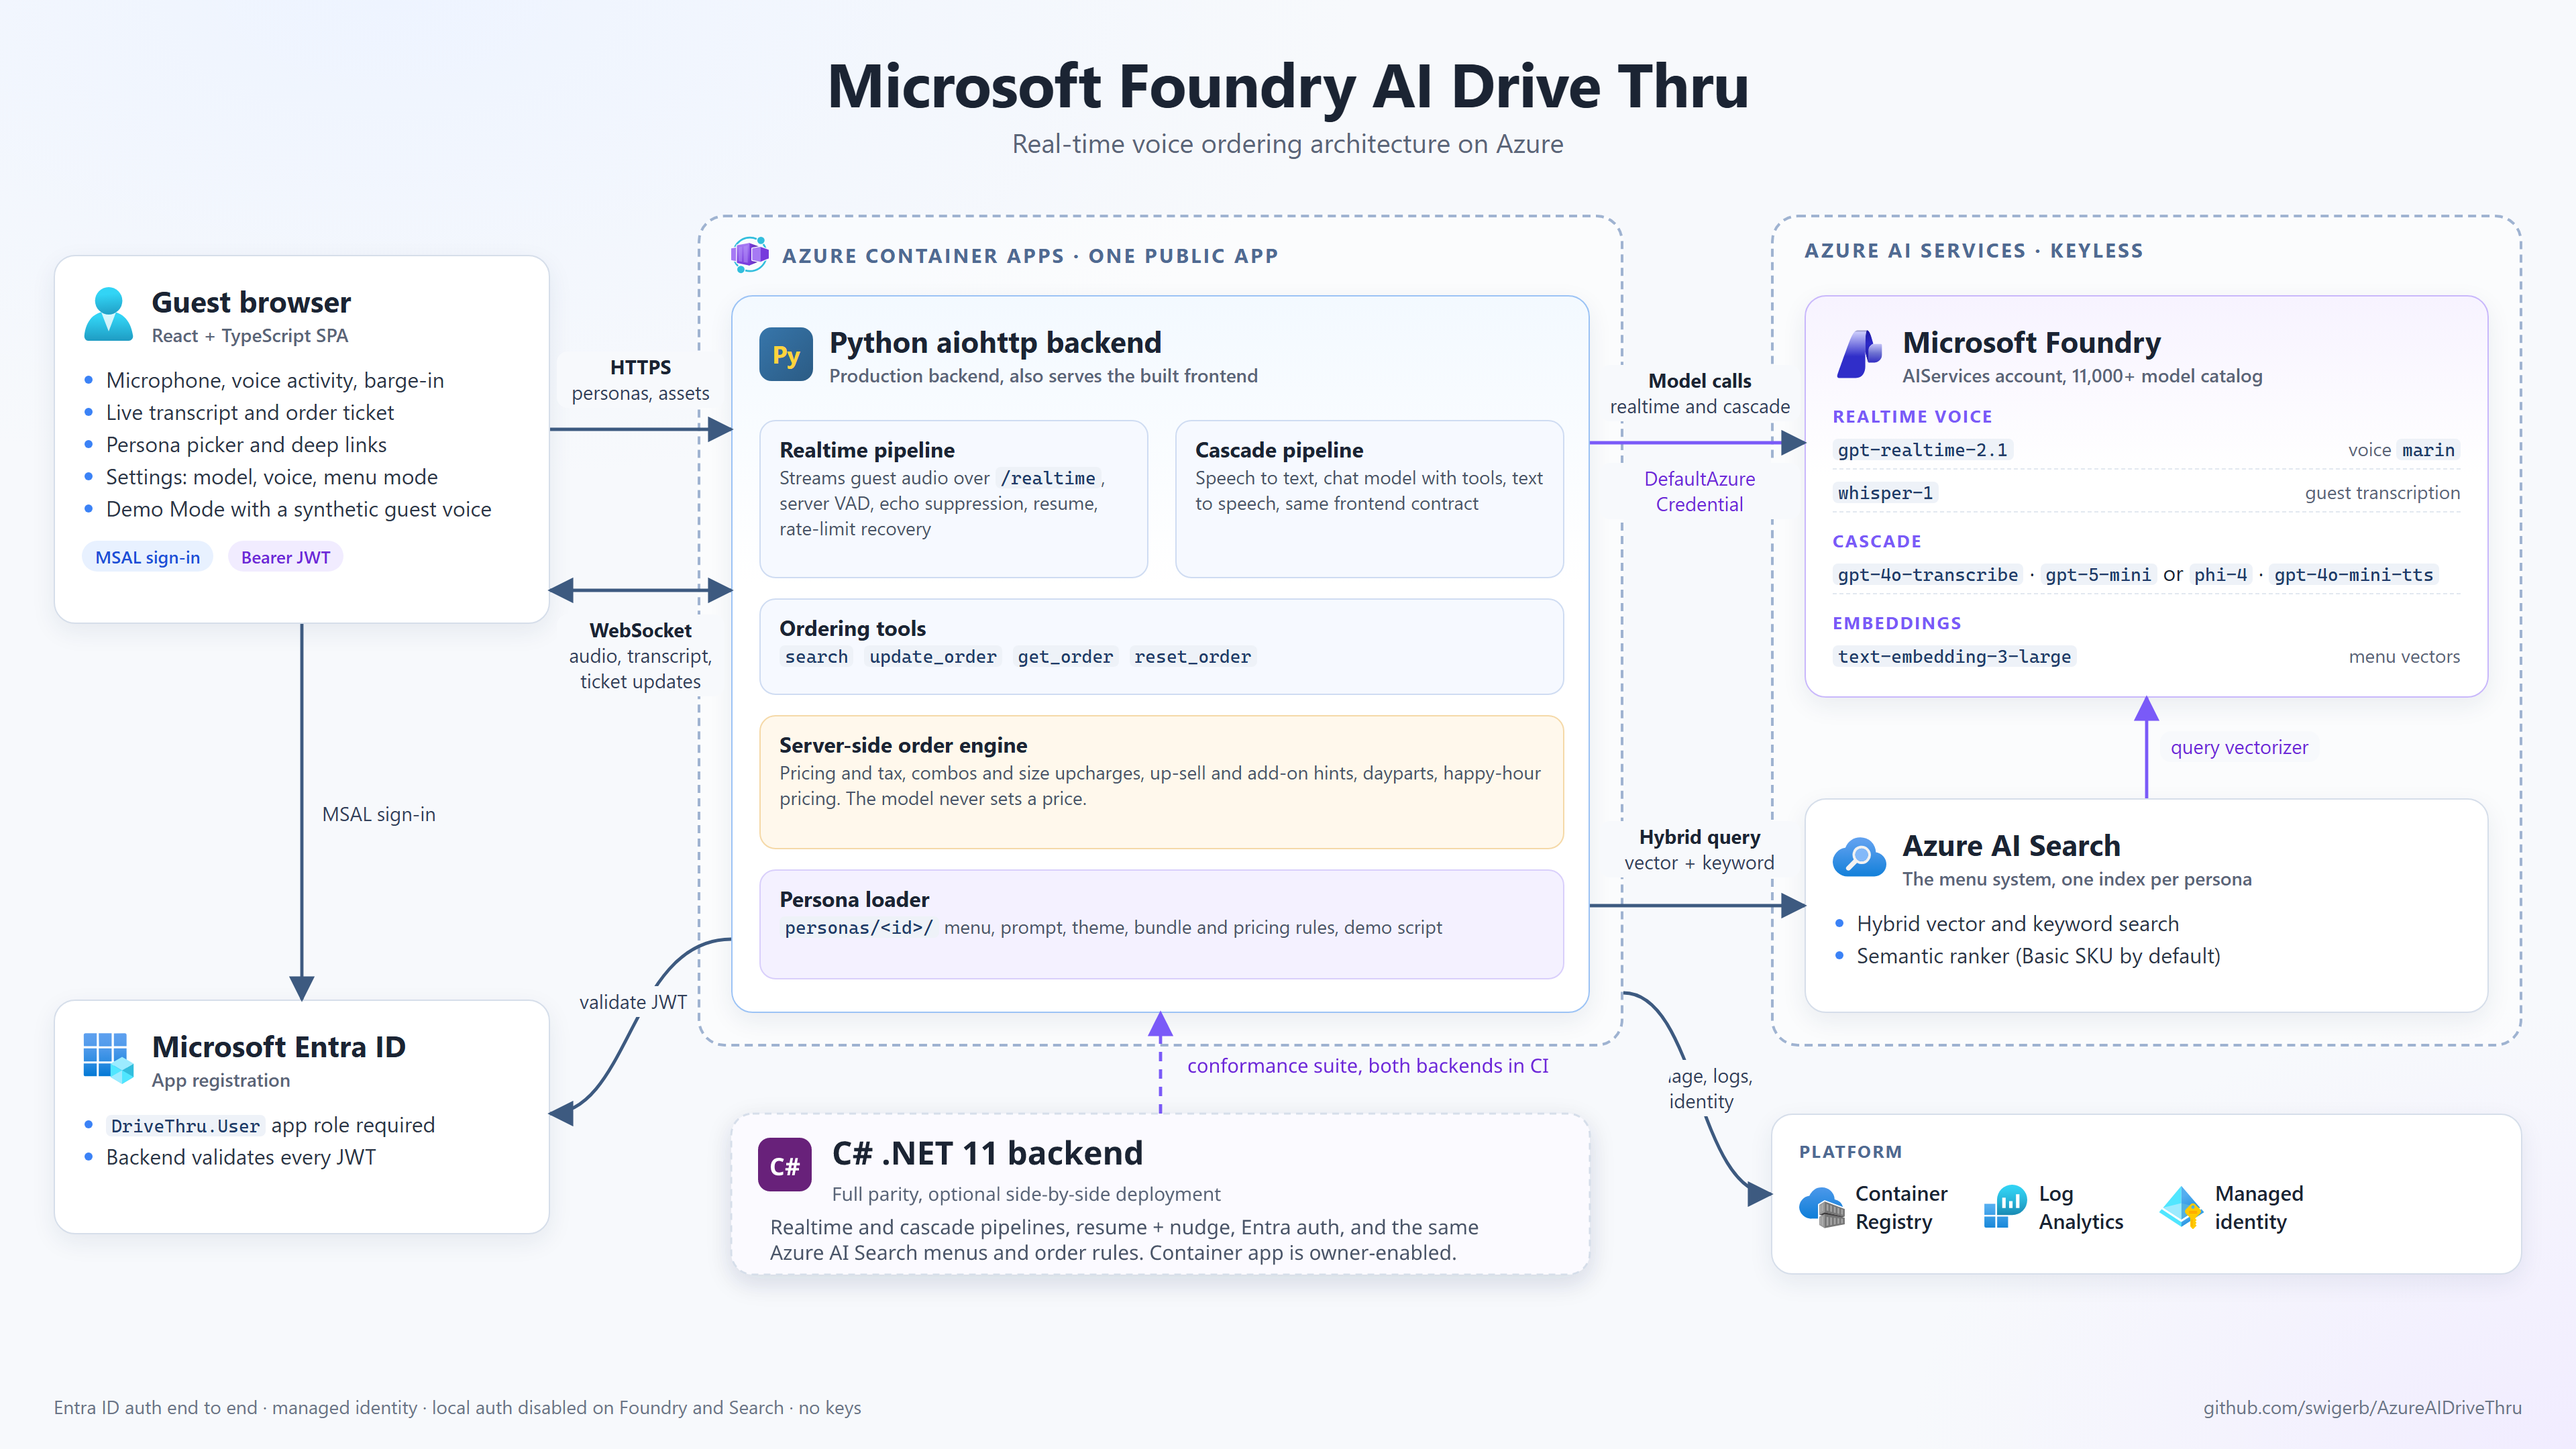
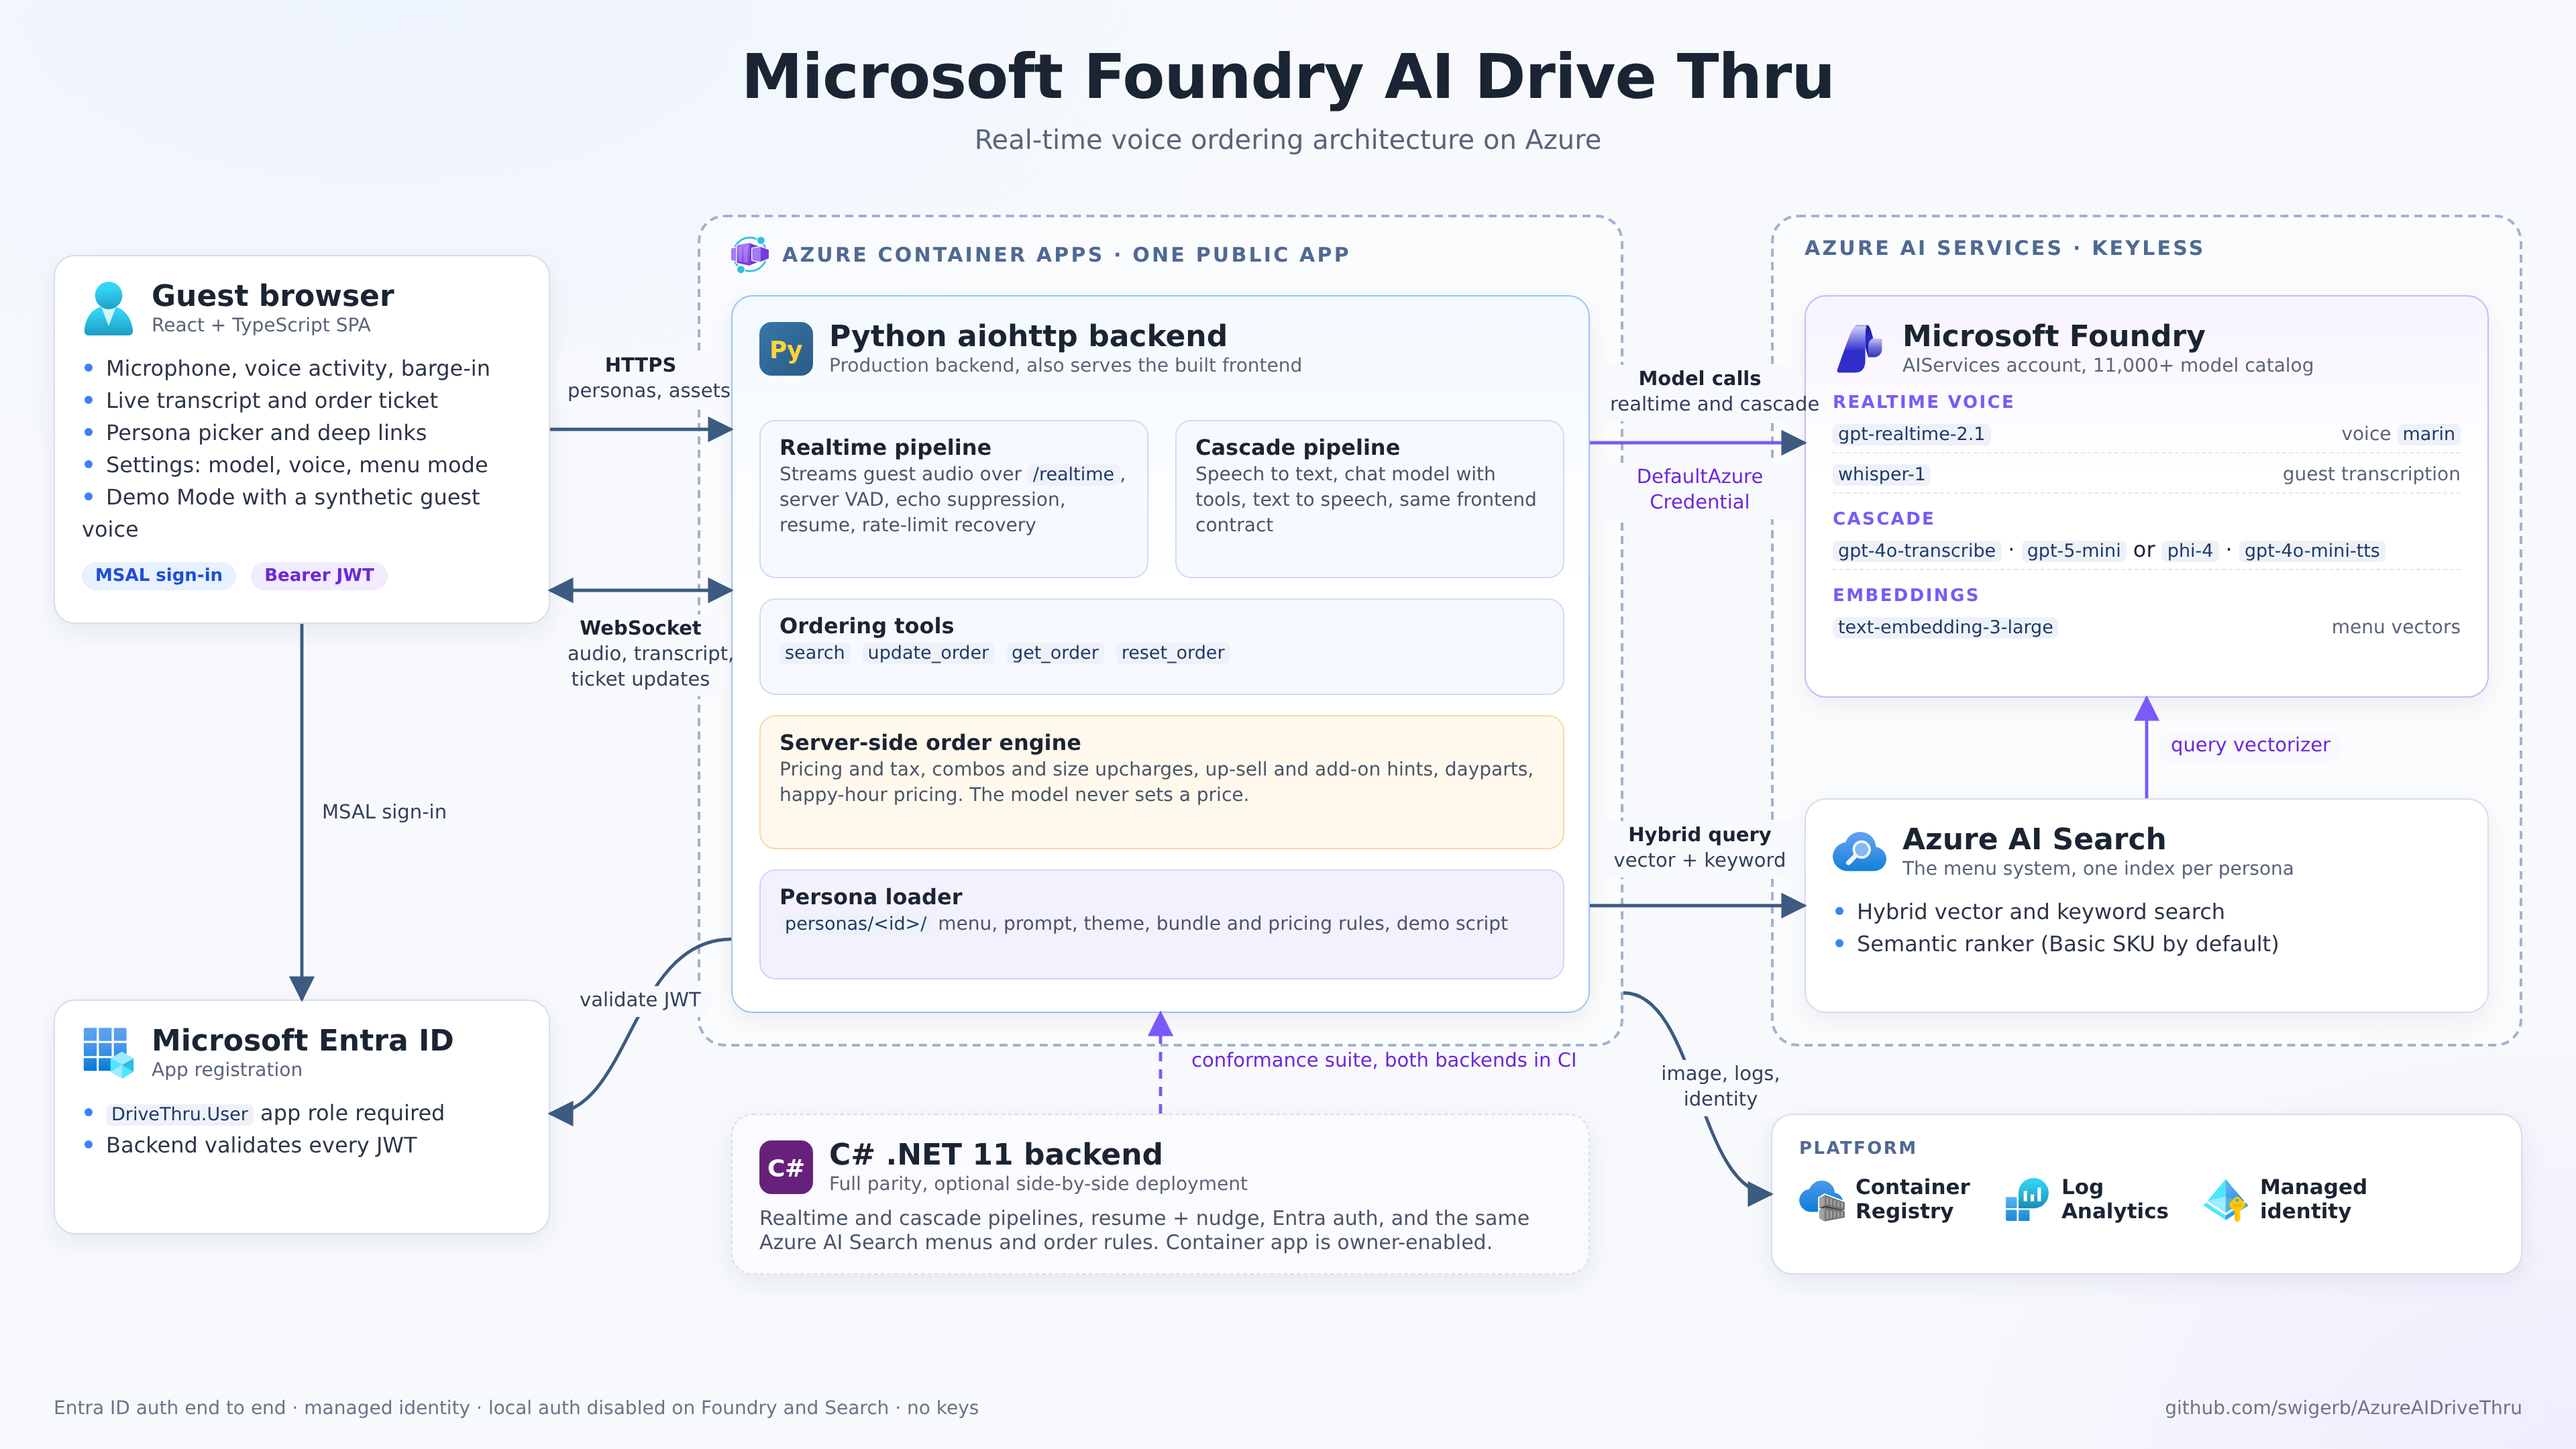
Refs #6: fix clipped platform label by giving it an explicit width
The 'image, logs, identity' label sat between the C# card and the
Platform card without a fixed width, unlike its sibling corridor
labels. That made its rendered width font-dependent, and with the
wider C# card text it ended up clipped on render. Give it the same
explicit width + small nudge treatment used by the other gap labels
so it renders deterministically.

diff --git a/docs/images/src/architecture/arch.html b/docs/images/src/architecture/arch.html
@@ -146,7 +146,7 @@
 <div class="lbl" style="left:1192px; top:612px; width:150px;"><b>Hybrid query</b><br>vector + keyword</div>
 <div class="lbl" style="left:1610px; top:545px; color:#6d28d9;">query vectorizer</div>
 <div class="lbl" style="left:880px; top:780px; color:#6d28d9;">conformance suite, both backends in CI</div>
-<div class="lbl" style="left:1222px; top:790px;">image, logs,<br>identity</div>
+<div class="lbl" style="left:1230px; top:790px; width:105px;">image, logs,<br>identity</div>
 
 <div class="footer"><span>Entra ID auth end to end · managed identity · local auth disabled on Foundry and Search · no keys</span><span>github.com/swigerb/AzureAIDriveThru</span></div>
 </body></html>
